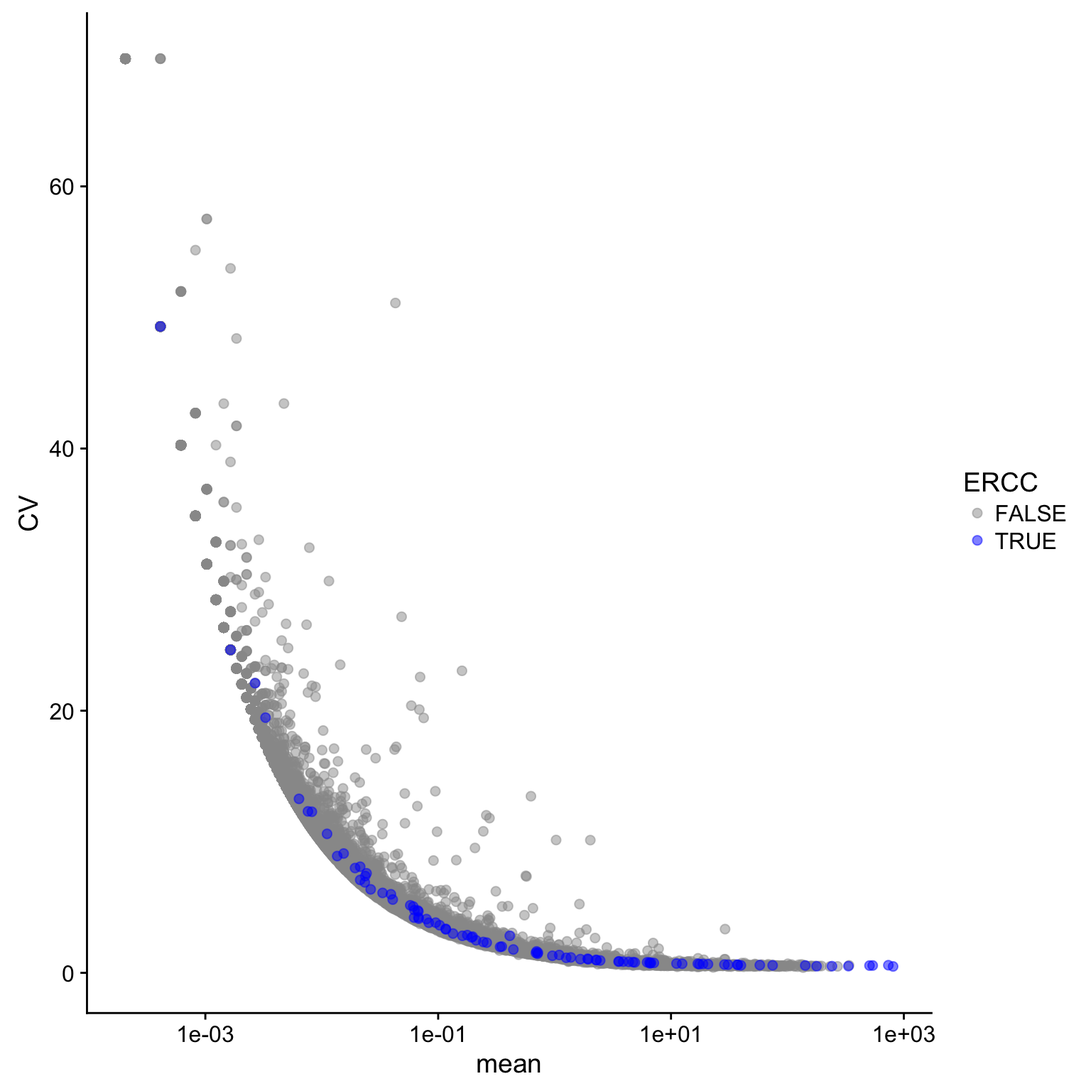
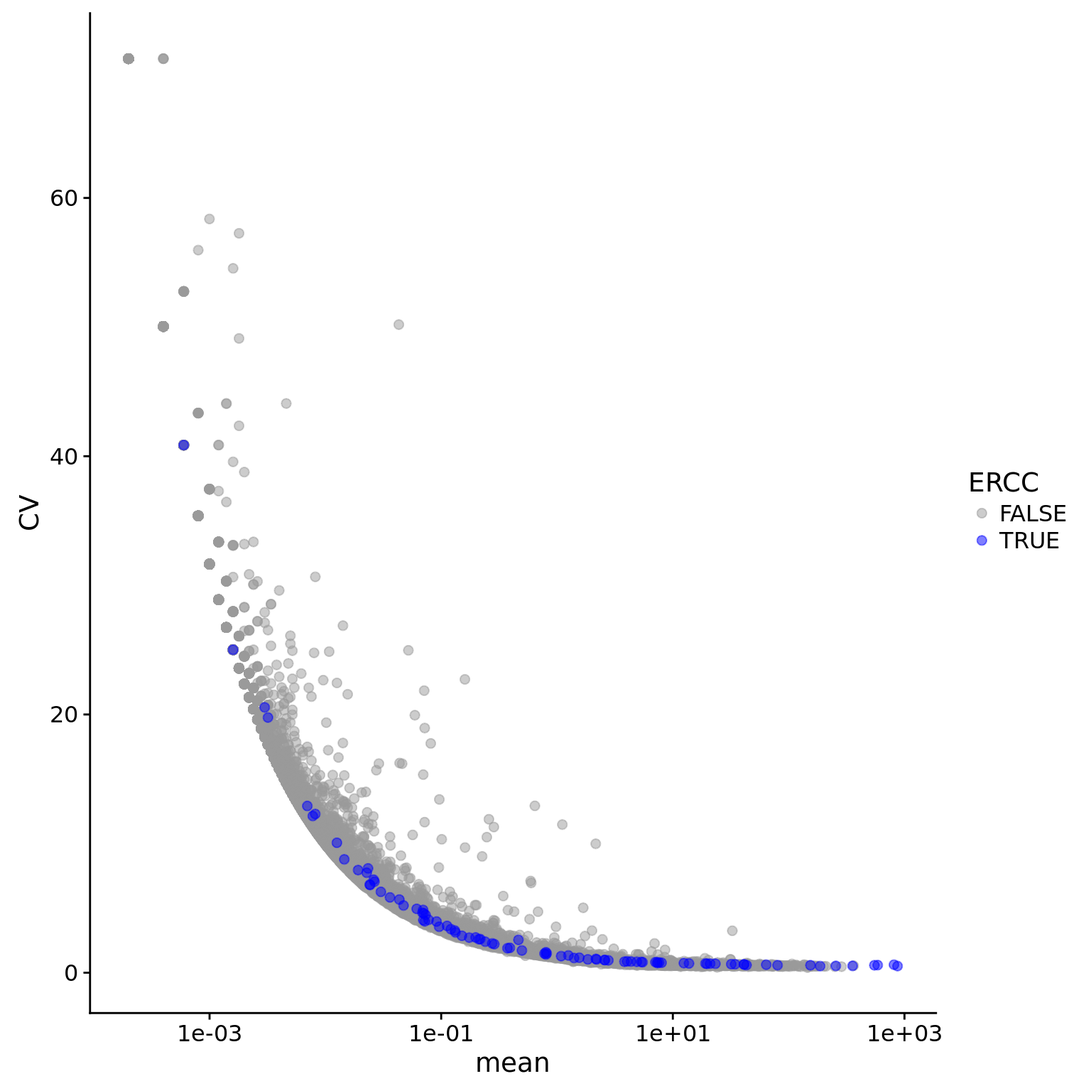
Build site.

diff --git a/docs/noisygene.html b/docs/noisygene.html
@@ -25,8 +25,8 @@
 <link href="site_libs/tocify-1.9.1/jquery.tocify.css" rel="stylesheet" />
 <script src="site_libs/tocify-1.9.1/jquery.tocify.js"></script>
 <script src="site_libs/navigation-1.1/tabsets.js"></script>
-<link href="site_libs/highlightjs-9.12.0/textmate.css" rel="stylesheet" />
-<script src="site_libs/highlightjs-9.12.0/highlight.js"></script>
+<link href="site_libs/highlightjs-1.1/textmate.css" rel="stylesheet" />
+<script src="site_libs/highlightjs-1.1/highlight.js"></script>
 <link href="site_libs/font-awesome-4.5.0/css/font-awesome.min.css" rel="stylesheet" />
 
 <style type="text/css">code{white-space: pre;}</style>
@@ -36,12 +36,10 @@
   }
 </style>
 <script type="text/javascript">
-if (window.hljs) {
-  hljs.configure({languages: []});
-  hljs.initHighlightingOnLoad();
-  if (document.readyState && document.readyState === "complete") {
-    window.setTimeout(function() { hljs.initHighlighting(); }, 0);
-  }
+if (window.hljs && document.readyState && document.readyState === "complete") {
+   window.setTimeout(function() {
+      hljs.initHighlighting();
+   }, 0);
 }
 </script>
 
@@ -321,14 +319,13 @@ div.tocify {
 shared across the workflowr files. -->
 <!-- Update knitr chunk options -->
 <!-- Insert the date the file was last updated -->
-<p><strong>Last updated:</strong> 2018-02-09</p>
+<p><strong>Last updated:</strong> 2018-02-18</p>
 <!-- Insert the code version (Git commit SHA1) if Git repository exists and R
  package git2r is installed -->
-<p><strong>Code version:</strong> 3fb7149</p>
+<p><strong>Code version:</strong> bdc9784</p>
 <section id="setup" class="level2">
 <h2>Setup</h2>
 <pre class="r"><code>library(&quot;cowplot&quot;)
-library(&quot;dplyr&quot;)
 library(&quot;edgeR&quot;)
 library(&quot;ggplot2&quot;)
 library(&quot;knitr&quot;)
@@ -351,12 +348,12 @@ colnames(quality) &lt;- c(&quot;sample&quot;, &quot;quality&quot;)
 eset &lt;- eset[, quality$quality]
 dim(eset)</code></pre>
 <pre><code>Features  Samples 
-   20419     4865 </code></pre>
+   20419     5012 </code></pre>
 <p>Remove zeros.</p>
 <pre class="r"><code>eset &lt;- eset[rowSums(exprs(eset)) != 0, ]
 dim(eset)</code></pre>
 <pre><code>Features  Samples 
-   19796     4865 </code></pre>
+   19827     5012 </code></pre>
 </section>
 <section id="mean-and-cv" class="level2">
 <h2>Mean and CV</h2>
@@ -364,7 +361,7 @@ dim(eset)</code></pre>
 <pre class="r"><code>eset_data &lt;- exprs(eset)
 eset_data_cr &lt;- as.data.frame(-4^6*log(1-eset_data/4^6))
 dim(eset_data_cr)</code></pre>
-<pre><code>[1] 19796  4865</code></pre>
+<pre><code>[1] 19827  5012</code></pre>
 <p>Calculate mean for each gene</p>
 <pre class="r"><code>eset_data_cr$mean &lt;- apply(eset_data_cr, 1, function(x) mean(x,na.rm=TRUE) )</code></pre>
 <p>Calculate CV for each gene</p>
@@ -395,11 +392,6 @@ plot.cv.and.mean &lt;- function(data.in){
     # need to have a ERCC flag on the data.in
     molecules_single_qc_expressed_ERCC &lt;- data.in[data.in$ERCC,]    
     
-    # defnine poisson function on a log x scale
-    poisson.c &lt;- function (x) {
-        x^(-0.5)
-    }
-
     # compute the lossy factor based on ERCC
     ####   use LS: first define the function of f, then find the minimum
     ####   dont use the points from ERCC.mol.mean &lt; 0.1 to fit. 
@@ -418,8 +410,13 @@ plot.cv.and.mean &lt;- function(data.in){
     lossy.posson &lt;- function (x) {
         1/sqrt((x)*minipar)
     }
-
-    # 4 s.d. 
+    
+    # defnine poisson function on a log x scale
+    poisson.c &lt;- function (x) {
+        x^(-0.5)
+    }
+    
+     # 4 s.d. 
     four.sd &lt;- function (x) {
         4*(x)^(0.5)/(x)
     }
@@ -442,7 +439,7 @@ plot.cv.and.mean &lt;- function(data.in){
 
 }
 plot.cv.and.mean(data.in=eset_data_cr)</code></pre>
-<pre><code>Warning: Removed 18 rows containing missing values (geom_path).</code></pre>
+<pre><code>Warning: Removed 17 rows containing missing values (geom_path).</code></pre>
 <pre><code>Warning: Removed 2 rows containing missing values (geom_path).</code></pre>
 <p><img src="figure/noisygene.Rmd/poisson-1.png" width="768" style="display: block; margin: auto;" /></p>
 </section>
@@ -468,42 +465,46 @@ noisy_gene_all</code></pre>
 <pre><code>  [1] &quot;ENSG00000002822&quot; &quot;ENSG00000005022&quot; &quot;ENSG00000008988&quot;
   [4] &quot;ENSG00000034510&quot; &quot;ENSG00000062716&quot; &quot;ENSG00000070756&quot;
   [7] &quot;ENSG00000071082&quot; &quot;ENSG00000074800&quot; &quot;ENSG00000075624&quot;
- [10] &quot;ENSG00000079459&quot; &quot;ENSG00000080824&quot; &quot;ENSG00000084207&quot;
- [13] &quot;ENSG00000087086&quot; &quot;ENSG00000089157&quot; &quot;ENSG00000092841&quot;
- [16] &quot;ENSG00000096384&quot; &quot;ENSG00000100316&quot; &quot;ENSG00000105372&quot;
- [19] &quot;ENSG00000108298&quot; &quot;ENSG00000108518&quot; &quot;ENSG00000108821&quot;
- [22] &quot;ENSG00000109971&quot; &quot;ENSG00000110700&quot; &quot;ENSG00000110713&quot;
- [25] &quot;ENSG00000111640&quot; &quot;ENSG00000111716&quot; &quot;ENSG00000114391&quot;
- [28] &quot;ENSG00000115541&quot; &quot;ENSG00000117450&quot; &quot;ENSG00000118181&quot;
- [31] &quot;ENSG00000119705&quot; &quot;ENSG00000120437&quot; &quot;ENSG00000122406&quot;
- [34] &quot;ENSG00000123416&quot; &quot;ENSG00000124614&quot; &quot;ENSG00000124762&quot;
- [37] &quot;ENSG00000124766&quot; &quot;ENSG00000125144&quot; &quot;ENSG00000125691&quot;
- [40] &quot;ENSG00000127184&quot; &quot;ENSG00000130255&quot; &quot;ENSG00000131469&quot;
- [43] &quot;ENSG00000131969&quot; &quot;ENSG00000132341&quot; &quot;ENSG00000132475&quot;
- [46] &quot;ENSG00000136810&quot; &quot;ENSG00000136942&quot; &quot;ENSG00000137154&quot;
- [49] &quot;ENSG00000137818&quot; &quot;ENSG00000138326&quot; &quot;ENSG00000140264&quot;
- [52] &quot;ENSG00000142534&quot; &quot;ENSG00000142541&quot; &quot;ENSG00000143947&quot;
- [55] &quot;ENSG00000144713&quot; &quot;ENSG00000145592&quot; &quot;ENSG00000149273&quot;
- [58] &quot;ENSG00000149591&quot; &quot;ENSG00000149925&quot; &quot;ENSG00000156482&quot;
- [61] &quot;ENSG00000161016&quot; &quot;ENSG00000164032&quot; &quot;ENSG00000164587&quot;
- [64] &quot;ENSG00000166681&quot; &quot;ENSG00000167526&quot; &quot;ENSG00000167996&quot;
- [67] &quot;ENSG00000170315&quot; &quot;ENSG00000172809&quot; &quot;ENSG00000174748&quot;
- [70] &quot;ENSG00000175063&quot; &quot;ENSG00000177105&quot; &quot;ENSG00000177600&quot;
- [73] &quot;ENSG00000177954&quot; &quot;ENSG00000181163&quot; &quot;ENSG00000182481&quot;
- [76] &quot;ENSG00000182899&quot; &quot;ENSG00000184009&quot; &quot;ENSG00000185885&quot;
- [79] &quot;ENSG00000186468&quot; &quot;ENSG00000187193&quot; &quot;ENSG00000189043&quot;
- [82] &quot;ENSG00000189403&quot; &quot;ENSG00000196230&quot; &quot;ENSG00000196262&quot;
- [85] &quot;ENSG00000196531&quot; &quot;ENSG00000197061&quot; &quot;ENSG00000197756&quot;
- [88] &quot;ENSG00000198518&quot; &quot;ENSG00000198712&quot; &quot;ENSG00000198727&quot;
- [91] &quot;ENSG00000198763&quot; &quot;ENSG00000198786&quot; &quot;ENSG00000198804&quot;
- [94] &quot;ENSG00000198840&quot; &quot;ENSG00000198886&quot; &quot;ENSG00000198888&quot;
- [97] &quot;ENSG00000198899&quot; &quot;ENSG00000198938&quot; &quot;ENSG00000204628&quot;
-[100] &quot;ENSG00000212907&quot; &quot;ENSG00000213741&quot; &quot;ENSG00000228253&quot;
-[103] &quot;ENSG00000231500&quot; &quot;ENSG00000240972&quot; &quot;ENSG00000255823&quot;
-[106] &quot;ERCC-00002&quot;      &quot;ERCC-00003&quot;      &quot;ERCC-00004&quot;     
-[109] &quot;ERCC-00046&quot;      &quot;ERCC-00074&quot;      &quot;ERCC-00096&quot;     
-[112] &quot;ERCC-00113&quot;      &quot;ERCC-00130&quot;      &quot;ERCC-00136&quot;     
-[115] &quot;ERCC-00171&quot;     </code></pre>
+ [10] &quot;ENSG00000079459&quot; &quot;ENSG00000080824&quot; &quot;ENSG00000083845&quot;
+ [13] &quot;ENSG00000084207&quot; &quot;ENSG00000087086&quot; &quot;ENSG00000089157&quot;
+ [16] &quot;ENSG00000092841&quot; &quot;ENSG00000096384&quot; &quot;ENSG00000100316&quot;
+ [19] &quot;ENSG00000105372&quot; &quot;ENSG00000108298&quot; &quot;ENSG00000108518&quot;
+ [22] &quot;ENSG00000108821&quot; &quot;ENSG00000109971&quot; &quot;ENSG00000110700&quot;
+ [25] &quot;ENSG00000110713&quot; &quot;ENSG00000111640&quot; &quot;ENSG00000111716&quot;
+ [28] &quot;ENSG00000112306&quot; &quot;ENSG00000114391&quot; &quot;ENSG00000115541&quot;
+ [31] &quot;ENSG00000117450&quot; &quot;ENSG00000118181&quot; &quot;ENSG00000119705&quot;
+ [34] &quot;ENSG00000120437&quot; &quot;ENSG00000122406&quot; &quot;ENSG00000123416&quot;
+ [37] &quot;ENSG00000124614&quot; &quot;ENSG00000124762&quot; &quot;ENSG00000124766&quot;
+ [40] &quot;ENSG00000125144&quot; &quot;ENSG00000125691&quot; &quot;ENSG00000125743&quot;
+ [43] &quot;ENSG00000127184&quot; &quot;ENSG00000130255&quot; &quot;ENSG00000131469&quot;
+ [46] &quot;ENSG00000131969&quot; &quot;ENSG00000132341&quot; &quot;ENSG00000132475&quot;
+ [49] &quot;ENSG00000136810&quot; &quot;ENSG00000136942&quot; &quot;ENSG00000137154&quot;
+ [52] &quot;ENSG00000137818&quot; &quot;ENSG00000138326&quot; &quot;ENSG00000140264&quot;
+ [55] &quot;ENSG00000142534&quot; &quot;ENSG00000142541&quot; &quot;ENSG00000143947&quot;
+ [58] &quot;ENSG00000143977&quot; &quot;ENSG00000144713&quot; &quot;ENSG00000145592&quot;
+ [61] &quot;ENSG00000149273&quot; &quot;ENSG00000149591&quot; &quot;ENSG00000149925&quot;
+ [64] &quot;ENSG00000156482&quot; &quot;ENSG00000156508&quot; &quot;ENSG00000161016&quot;
+ [67] &quot;ENSG00000162244&quot; &quot;ENSG00000164032&quot; &quot;ENSG00000164587&quot;
+ [70] &quot;ENSG00000166441&quot; &quot;ENSG00000166681&quot; &quot;ENSG00000167088&quot;
+ [73] &quot;ENSG00000167526&quot; &quot;ENSG00000167996&quot; &quot;ENSG00000168653&quot;
+ [76] &quot;ENSG00000169020&quot; &quot;ENSG00000170315&quot; &quot;ENSG00000172809&quot;
+ [79] &quot;ENSG00000174748&quot; &quot;ENSG00000175063&quot; &quot;ENSG00000177105&quot;
+ [82] &quot;ENSG00000177600&quot; &quot;ENSG00000177954&quot; &quot;ENSG00000181163&quot;
+ [85] &quot;ENSG00000182481&quot; &quot;ENSG00000182899&quot; &quot;ENSG00000184009&quot;
+ [88] &quot;ENSG00000185885&quot; &quot;ENSG00000186468&quot; &quot;ENSG00000187193&quot;
+ [91] &quot;ENSG00000189043&quot; &quot;ENSG00000189403&quot; &quot;ENSG00000196230&quot;
+ [94] &quot;ENSG00000196262&quot; &quot;ENSG00000196531&quot; &quot;ENSG00000197061&quot;
+ [97] &quot;ENSG00000197756&quot; &quot;ENSG00000198518&quot; &quot;ENSG00000198712&quot;
+[100] &quot;ENSG00000198727&quot; &quot;ENSG00000198763&quot; &quot;ENSG00000198786&quot;
+[103] &quot;ENSG00000198804&quot; &quot;ENSG00000198886&quot; &quot;ENSG00000198888&quot;
+[106] &quot;ENSG00000198899&quot; &quot;ENSG00000198938&quot; &quot;ENSG00000204628&quot;
+[109] &quot;ENSG00000205358&quot; &quot;ENSG00000212907&quot; &quot;ENSG00000213741&quot;
+[112] &quot;ENSG00000228253&quot; &quot;ENSG00000231500&quot; &quot;ENSG00000240972&quot;
+[115] &quot;ENSG00000255823&quot; &quot;ERCC-00002&quot;      &quot;ERCC-00003&quot;     
+[118] &quot;ERCC-00004&quot;      &quot;ERCC-00009&quot;      &quot;ERCC-00046&quot;     
+[121] &quot;ERCC-00074&quot;      &quot;ERCC-00096&quot;      &quot;ERCC-00108&quot;     
+[124] &quot;ERCC-00113&quot;      &quot;ERCC-00130&quot;      &quot;ERCC-00136&quot;     
+[127] &quot;ERCC-00171&quot;     </code></pre>
 </section>
 
 <hr>

diff --git a/docs/introduction.html b/docs/introduction.html
@@ -319,15 +319,15 @@ div.tocify {
 shared across the workflowr files. -->
 <!-- Update knitr chunk options -->
 <!-- Insert the date the file was last updated -->
-<p><strong>Last updated:</strong> 2018-02-13</p>
+<p><strong>Last updated:</strong> 2018-02-18</p>
 <!-- Insert the code version (Git commit SHA1) if Git repository exists and R
  package git2r is installed -->
-<p><strong>Code version:</strong> 609c73d</p>
+<p><strong>Code version:</strong> bdc9784</p>
 <p>The importance of robustness and the regulation of noise as mechanisms that maintain high evolutionary fitness is evident<span class="citation" data-cites="Kirschner1998 Kitano2004 Masel2009">[@Kirschner1998;@Kitano2004;@Masel2009]</span>. Yet, we still have a relatively poor understanding of how robustness is achieved and how expression noise is being regulated at the molecular level. In model organisms, robustness and evolvability can be studied using experimental evolution approaches. Relative robustness is typically quantified with respect to the change in variation of a specific trait when the experimental perturbation is applied <span class="citation" data-cites="Barrick2013 deVisser2003">[@Barrick2013; @deVisser2003]</span>. In such experiments, the phenotypic outcomes rather than the underlying mechanisms of robustness are measured. To take first steps towards understanding how robustness is regulated in humans, we proposed to focus on a molecular phenotype, namely gene expression levels.</p>
 <p>With few exceptions <span class="citation" data-cites="Deng2014 Marinov2014">[@Deng2014;@Marinov2014]</span>, experimental evolution studies have always considered population-average measurements of phenotypes using entire organisms, tissues, or cell cultures. However, as was often suggested in the literature, to truly understand how robustness is established and encoded in the genome, one needs to consider variation in phenotypes across individual cells<span class="citation" data-cites="Raser2004 Kaern2005 Balazsi2011">[@Raser2004;@Kaern2005;@Balazsi2011]</span>. The motivation to learn more about the property of robustness has led to the advent of new approaches to study ‘noise genetics’ – essentially using existing paradigms to characterize naturally occurring cell-to-cell variation instead of the population-average response to an artificial perturbation<span class="citation" data-cites="Farkash-Amar2014">[@Farkash-Amar2014]</span>. The idea of using the probability of gene expression at the single cell level as a genetic phenotype, termed ‘particle genetics’, has also been introduced to study complex traits <span class="citation" data-cites="Yvert2014">[@Yvert2014]</span>. While a large number of studies have focused on the robustness of particular cellular functions or individual genes in humans <span class="citation" data-cites="Wills2013 Shaffer2014 Halpern2015 Hendy2017">[@Wills2013;@Shaffer2014;@Halpern2015;@Hendy2017]</span>, genome-wide analysis and mapping of the genetic loci underlying robustness has yet to be performed.</p>
 <p>Recent advances in single-cell and single-molecule techniques have revealed that gene expression noise caused by stochastic fluctuations is a complex genetic trait in yeasts<span class="citation" data-cites="Ansel2008">[@Ansel2008]</span>. As a result, research is also aimed at understanding how expression noise is controlled and interpreted within gene regulatory networks <span class="citation" data-cites="Eldar2010 Chalancon2012">[@Eldar2010;@Chalancon2012]</span>. However, a lack of appropriate quantitative experimental approaches has made the mapping of genetic loci responsible for differential cell-cell variation (or gene expression noise) extremely difficult. One methodology that has been proved powerful as a tool to dissect the genetic architecture of complex phenotypes is the quantitative trait loci (QTL) mapping approach. In the context of molecular phenotypes, such as gene expression levels and epigenetic regulatory features, QTL studies in a wide range of species, including humans, have provided important insights into the genetic basis for inter-individual variation in gene regulation <span class="citation" data-cites="Gilad2008 Pickrell2010 Majewski2011">[@Gilad2008; @Pickrell2010; @Majewski2011]</span>. Since gene expression levels of population-average measurements are proven to be genetically controlled, it stands to reason that the levels of acceptable regulatory noise (or the degree of robustness) would also be genetically encoded. Indeed, the identification of QTLs influencing stochastic cell–cell variability in yeast lends some measure of support to this notion<span class="citation" data-cites="Chuffart2016">[@Chuffart2016]</span>. Yet, regulatory QTL studies in mammalian systems have not yet considered this aspect. All studies to date focused on the mean expression levels across millions of cells, lacking the expression profiling information at the single cell level.</p>
-<p>Induced pluripotency stem cells (iPSCs)<span class="citation" data-cites="Takahashi2006">[@Takahashi2006]</span> are a tantalizingly flexible system with which many different developmental and cell lineage determination pathways can be explored. Recent studies have demonstrated that iPSCs can be utilized as a powerful tool for studies of the genetic association with variation in gene regulation<span class="citation" data-cites="Thomas2015 Burrows2016 DeBoever2017 Kilpinen2017">[@Thomas2015; @Burrows2016; @DeBoever2017; @Kilpinen2017]</span>. In particular, iPSCs provide a means by which to examine the contribution of changes in gene regulation to human evolution and diversity<span class="citation" data-cites="Romero2012 Banovich2018">[@Romero2012; @Banovich2018]</span>. Importantly, the heterogeneous gene expression levels between individual cells observed in population of iPSCs has been proposed to reflect the alternate cell states that represent multiple differentiation potentials<span class="citation" data-cites="Narsinh2011">[@Narsinh2011]</span>. To understand the underlying mechanisms of such plasticity in human iPSCs, quantification of gene expression at the single-cell level is required. Nevertheless, the lack of an iPSC system for single cell studies of robustness has hindered the investigation of regulatory noise during differentiation and development in humans.</p>
-<p>In this genome-wide study, the relative genetic robustness is measured as the inter-individual difference in magnitude of variation in gene expression levels across individual cells. To do so, we applied a QTL approach to map inter-individual variation in regulatory noise in a panel of iPSCs reprogrammed from deeply characterized Yoruba HapMap lymphoblastoid cell lines (LCLs)<span class="citation" data-cites="Banovich2018">[@Banovich2018]</span>. Using the Fluidigm C1 system, we collected single-cell RNA-seq from 54 individuals using the technique of unique molecular identifiers (UMIs). This approach allows for the detection of mRNA molecule counts and hence provides more accurate estimation of the mean and the variance of expression level for each gene. We analyzed the variability in gene regulation across individual cells as a measure of expression regulatory noise. In addition, we developed a novel QTL mapping framework specifically applied to estimates of variance rather than average. To our knowledge, this is the first attempt to map genome wide robustness QTLs in humans.</p>
+<p>Induced pluripotency stem cells (iPSCs)<span class="citation" data-cites="Takahashi2006">[@Takahashi2006]</span> are a tantalizingly flexible system with which many different developmental and cell lineage determination pathways can be explored. Recent studies have demonstrated that iPSCs can be utilized as a powerful tool for studies of the genetic association with variation in gene regulation<span class="citation" data-cites="Thomas2015 Burrows2016 DeBoever2017 Kilpinen2017">[@Thomas2015; @Burrows2016; @DeBoever2017; @Kilpinen2017]</span>. In particular, iPSCs provide a means by which to examine the contribution of changes in gene regulation to human evolution and diversity<span class="citation" data-cites="Romero2012 Banovich2018">[@Romero2012; @Banovich2018]</span>. Importantly, the heterogeneous gene expression levels between individual cells observed in population of iPSCs has been proposed to reflect the alternate cell states that represent multiple differentiation potentials<span class="citation" data-cites="Narsinh2011">[@Narsinh2011]</span>. To understand the underlying mechanisms of such plasticity in human iPSCs, quantification of gene expression at the single-cell level is required. Nevertheless, the lack of an iPSC system for single cell studies of robustness has hindered the investigation of regulatory gene expression noise during differentiation and development in humans.</p>
+<p>In this genome-wide study, the relative genetic robustness is measured as the inter-individual difference in magnitude of variation in gene expression levels across individual cells. To do so, we applied a QTL approach to map inter-individual variation in gene expression noise in a panel of iPSCs reprogrammed from deeply characterized Yoruba HapMap lymphoblastoid cell lines (LCLs)<span class="citation" data-cites="Banovich2018">[@Banovich2018]</span>. Using the Fluidigm C1 system, we collected single-cell RNA-seq from 54 individuals using the technique of unique molecular identifiers (UMIs). This approach allows for the detection of mRNA molecule counts and hence provides more accurate estimation of the mean and the variance of expression level for each gene. We analyzed the variability in gene regulation across individual cells as a measure of expression regulatory noise. In addition, we developed a novel QTL mapping framework specifically applied to estimates of variance rather than average. To our knowledge, this is the first attempt to map genome wide robustness QTLs in humans.</p>
 
 <hr>
 <p>

diff --git a/docs/methods.html b/docs/methods.html
@@ -319,20 +319,19 @@ div.tocify {
 shared across the workflowr files. -->
 <!-- Update knitr chunk options -->
 <!-- Insert the date the file was last updated -->
-<p><strong>Last updated:</strong> 2018-02-13</p>
+<p><strong>Last updated:</strong> 2018-02-18</p>
 <!-- Insert the code version (Git commit SHA1) if Git repository exists and R
  package git2r is installed -->
-<p><strong>Code version:</strong> 609c73d</p>
+<p><strong>Code version:</strong> bdc9784</p>
 <section id="sample-collection" class="level2">
 <h2>Sample collection</h2>
-<p>The YRI iPSCs<span class="citation" data-cites="Banovich">[@Banovich]</span> were cultured in feeder-free conditions for at least ten passages in E8 medium (Life Technologies)<span class="citation" data-cites="Chen2011">[@Chen2011]</span> before being colleted using the C1 Single-Cell Auto Prep IFC microfluidic chip (Fluidigm). Before being loaded on the C1 IFC chip, a mixture of cell suspensions from four individuals were prepared freshly each time. Live cell number was measured by trypan blue staining (ThermoFisher) to obtain eqaul cell numbers across individuals in each cell mixture. Single cell capture and library preparation were performed the same as described before <span class="citation" data-cites="Tung2017">[@Tung2017]</span>, except that 6-bp random sequence UMIs were included instead of 5-bp. The 96 single cell samples of each C1 chip were pooled and sequenced on an Illumina HiSeq 2500 instrument using the TruSeq SBS Kit v3-HS (FC-401-3002).</p>
-<p>We collected total X,XXX cells from total XX <a href="data-collection.html">invididuals</a>. We obtained an average of XX million <a href="totals.html">sequencing reads</a> per sample. Using the UMI information, we obtained an median of XX molecules per sample. We performed <a href="pca-variable.html">PCA</a> on a subset of most variable genes and found that PC1 is most highly correlated with the percentage of detected genes and other metrics of sequencing depth, which is consistent with the observations of Hicks et al., 2017 <span class="citation" data-cites="Hicks2017">[@Hicks2017]</span>.</p>
+<p>The Yoruba (YRI) iPSCs<span class="citation" data-cites="Banovich">[@Banovich]</span> were cultured in feeder-free conditions for at least ten passages in E8 medium (Life Technologies)<span class="citation" data-cites="Chen2011">[@Chen2011]</span> before being colleted using the C1 Single-Cell Auto Prep IFC microfluidic chip (Fluidigm). A mixture of cell suspensions from four different individuals were prepared freshly each time for C1 collection. Additionally, cell viability was measured by the trypan blue staining (ThermoFisher) using the Automated Cell Counter (Bio-Rad) to obtain eqaul cell numbers across individuals in each cell mixture. Single cell capture and library preparation were performed the same as described before <span class="citation" data-cites="Tung2017">[@Tung2017]</span>, except that 6-bp random sequence UMIs were included instead of 5-bp. The 96 single cell samples from one C1 chip were pooled and sequenced on an Illumina HiSeq 2500 instrument using the TruSeq SBS Kit v3-HS (FC-401-3002). Each of the pooled sample were sequenced in more than two lanes to obtain two million good quality mapped reads from each single cell sample.</p>
+<p>We collected total X,XXX cells from total 54 different YRI <a href="data-collection.html">invididuals</a>. We obtained an average of XX million <a href="totals.html">sequencing reads</a> per single cell sample. Using the UMI information, we obtained an median of XX molecules per sample. We performed <a href="pca-variable.html">PCA</a> on a subset of most variable genes and found that PC1 is most highly correlated with the percentage of detected genes and other metrics of sequencing depth, which is consistent with the observations of Hicks et al., 2017 <span class="citation" data-cites="Hicks2017">[@Hicks2017]</span>.</p>
 </section>
 <section id="sample-quality-control" class="level2">
 <h2>Sample quality control</h2>
-<p>Single cell <a href="identity.html">sample identification</a> were determined by examining the SNPs present in their RNA sequencing reads using the method verifyBamID as described <span class="citation" data-cites="Tung2017">[@Tung2017]</span>. We obtained a 97.6 % valid identification from XX individuals.</p>
-<p>Using the identification of each single cell sample, we performed <a href="correlations.html">pairwise correlations</a> between the samples and found that the effect of individual is stronger than the effect of C1 chip. We also analyzed per-gene expression profiles and computed <a href="partition.html">variance component</a> estimates for the effects of individual and C1 batch.</p>
-<p>Next, we performed <a href="sampleqc.html">quality control</a> to identify low quality single cells. We kept from high quality single cell samples which passed the following criteria: * Only one cell observed per well * Valid identification * Less than XX % unmapped reads * Less than X.X % ERCC reads * More than X,XXX genes with at least one read</p>
+<p>Single cell <a href="identity.html">sample identification</a> were determined by examining the SNPs present in their RNA sequencing reads using the method verifyBamID as described <span class="citation" data-cites="Tung2017">[@Tung2017]</span>. We obtained a 97.6 % valid identification from 54 individuals. We did not observe any systematic contamination arocss any C1 IFC collection. Using the identification of each single cell sample, we performed <a href="correlations.html">pairwise correlations</a> between the samples and found that the effect of individual is stronger than the effect of C1 chip. We also analyzed per-gene expression profiles and computed <a href="partition.html">variance component</a> estimates for the effects of individual and C1 batch.</p>
+<p>Next, we performed <a href="sampleqc.html">quality control</a> to identify low quality single cells. We kept from high quality single cell samples which passed the following criteria: * Only one cell observed per well * Valid identification * More than XX million mapped reads * Less than XX % unmapped reads * Less than X.X % ERCC reads * More than X,XXX genes with at least one read</p>
 </section>
 
 <hr>

diff --git a/docs/analysis.html b/docs/analysis.html
@@ -216,9 +216,10 @@ $(document).ready(function () {
 <ul>
 <li><a href="totals.html">Analysis of total counts from processing pipeline</a></li>
 <li><a href="descriptive-stats.html">Descriptive statistics</a></li>
-<li><a href="umi-saturation.html">Diminishing returns of sequencing depth</a></li>
+<li><a href="dim-returns.html">Diminishing returns of sequencing depth</a></li>
 <li><a href="pca.html">Exploratory analysis with PCA</a></li>
 <li><a href="pca-variable.html">Correlation of covariates with PCs of highly variable genes</a></li>
+<li><a href="ercc.html">ERCC capture efficiency</a></li>
 <li><a href="identity.html">Identifying single cells</a></li>
 <li><a href="correlations.html">Pairwise correlations</a></li>
 <li><a href="partition.html">Paritioning variance across different factors</a></li>
